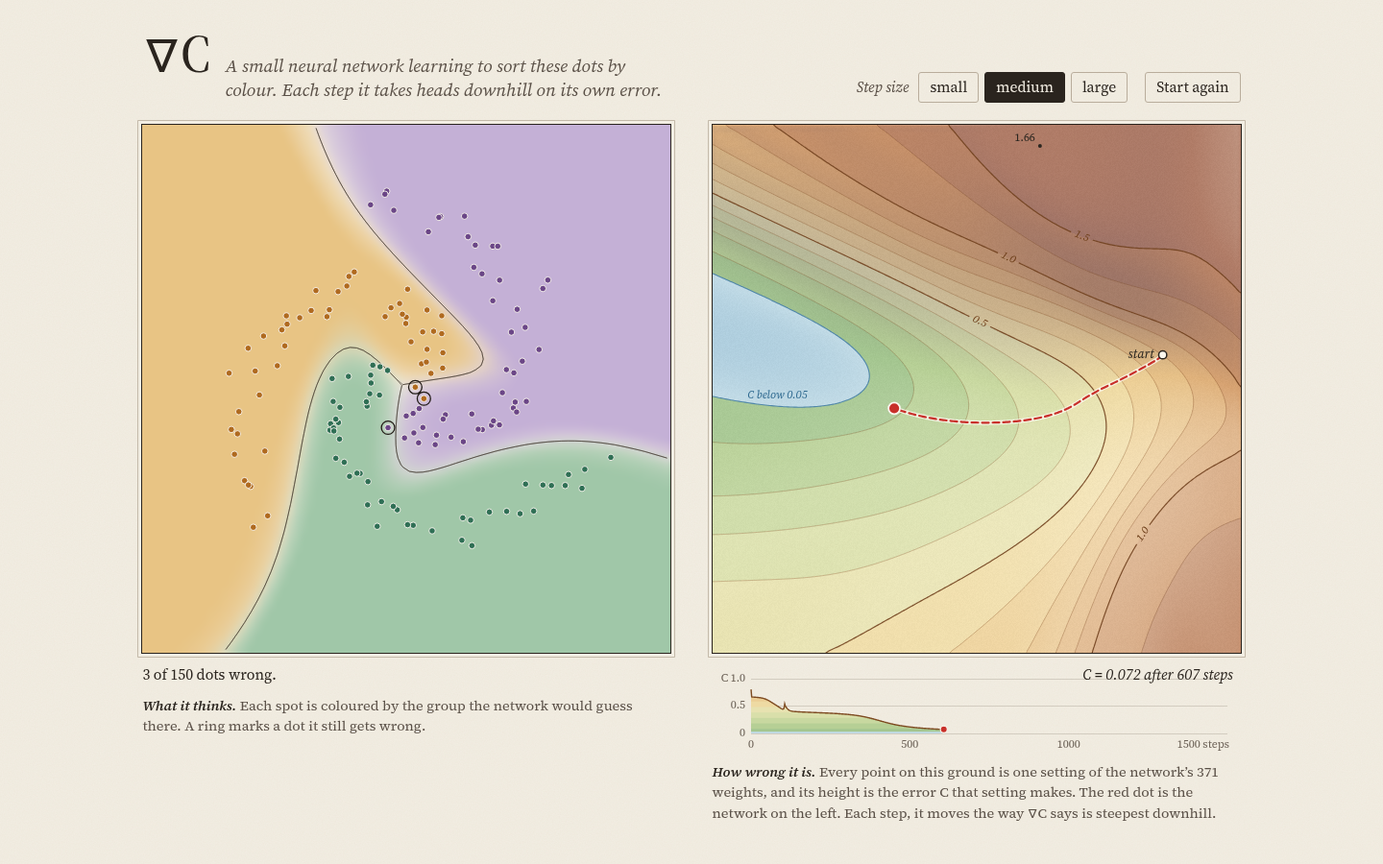
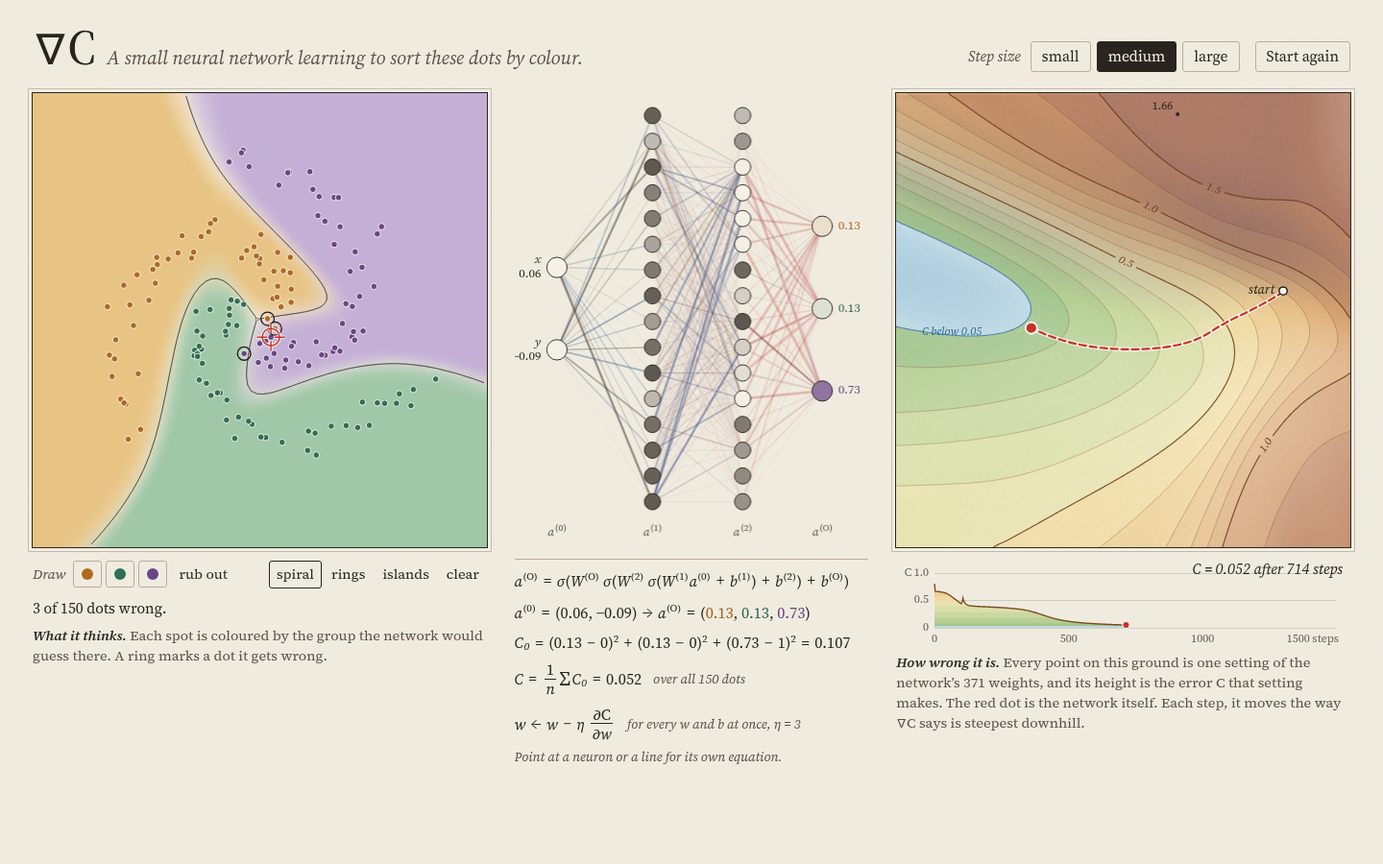
Gradient pulse scaled per step; README, integration entry and screenshots for round 2

diff --git a/src/main.js b/src/main.js
@@ -64,6 +64,7 @@ let stroke = null;
 let lastMaths = '';
 let mathsAt = 0;
 const grad = new Float64Array(P);
+let gradMax = 0; // the largest |∂C/∂w| at the step on screen
 
 // Section: runs.
 
@@ -295,7 +296,7 @@ function frame(now) {
       costAndGrad(net, run.thetas.subarray(0, P), run.data, grad);
       let gmax = 0;
       for (const L of net.layers) for (let i = 0; i < L.nin * L.nout; i++) gmax = Math.max(gmax, Math.abs(grad[L.w + i]));
-      run.gscale = gmax * 0.6;
+      run.gscale = gmax;
     }
     run.shown = s;
     run.drawnAt = now;
@@ -329,7 +330,9 @@ function frame(now) {
     from: pFrom,
     probeAge: still ? 1e9 : now - probeAt.since,
     grad,
-    gscale: run.gscale,
+    gscale: gradMax * 0.6,
+    // The pulse dims as ∇C shrinks, gently, so it stays visible to the end.
+    fade: run.gscale > 0 ? Math.max(0.25, Math.min(1, gradMax / run.gscale) ** 0.3) : 0,
     pulse,
     hover: netHover || netPin,
   });
@@ -370,6 +373,8 @@ function dataChanged(th) {
   const wrong = territory.render(net, th, data);
   if (!run.empty) costAndGrad(net, th, data, grad);
   else grad.fill(0);
+  gradMax = 0;
+  for (const L of net.layers) for (let i = 0; i < L.nin * L.nout; i++) gradMax = Math.max(gradMax, Math.abs(grad[L.w + i]));
   p = null;
   tally.textContent = !data.n
     ? 'No dots. Pick a colour and draw some.'

diff --git a/src/netview.js b/src/netview.js
@@ -76,12 +76,13 @@ export function makeNetView(canvas, net) {
   }
 
   // `s`: { th, p (probe), from (the probe before it moved, or null),
-  //        probeAge (ms since it moved), grad, gscale,
+  //        probeAge (ms since it moved), grad, gscale (|∂C/∂w| drawn at full
+  //        strength), fade (0..1, how bright the pulse is overall),
   //        pulse (0..1 front position, or null), hover }
   function draw(s) {
     if (!W) return;
     ctx.clearRect(0, 0, W, H);
-    const { th, p, from, grad, gscale, pulse, hover } = s;
+    const { th, p, from, grad, gscale, fade, pulse, hover } = s;
     const reveal = (l) => (p ? smooth((s.probeAge - 110 * l) / 220) : 0);
     // Each layer changes over from the old point's values to the new one's
     // as the signal reaches it.
@@ -135,8 +136,8 @@ export function makeNetView(canvas, net) {
         for (let j = 0; j < L.nout; j++) {
           for (let k = 0; k < L.nin; k++) {
             const g = Math.abs(grad[L.w + j * L.nin + k]);
-            const strength = Math.min(1, g / gscale) ** 0.4;
-            const a = glow * strength;
+            const strength = Math.min(1, g / gscale) ** 0.5;
+            const a = glow * strength * fade;
             if (a < 0.03) continue;
             line(RED, 0.75 * a, (0.6 + 2.4 * strength) * dpr, ends(l, j, k));
           }

diff --git a/README.md b/README.md
@@ -1,8 +1,8 @@
 # ∇C
 
-**In ten seconds:** on the left, a small neural network's guesses about some coloured dots go from muddle to a clean fit; on the right, a red dot walks down a contour map of the network's error until it reaches the lake at the bottom. Learning is that walk downhill.
+**In ten seconds:** on the left, a small neural network's guesses about some coloured dots go from muddle to a clean fit; in the middle, the network itself, its neurons lighting up for one dot at a time and a red pulse of ∇C running back through its weights; on the right, a red dot walks down a contour map of the network's error until it reaches the lake at the bottom. Learning is that walk downhill.
 
-The companion piece to the essay *Constructing ∇C*, which builds neural-network learning from high-school maths. Same notation: C is the cost, ∇C its gradient, and every step of learning is θ ← θ − η∇C.
+The companion piece to the essay *Constructing ∇C*, which builds neural-network learning from high-school maths. Same notation: C is the cost, C₀ the cost of one example, ∇C the gradient, layers written a⁽ˡ⁾ with (O) for the output, and every step of learning is w ← w − η ∂C/∂w.
 
 ```bash
 npm install
@@ -13,20 +13,27 @@ npm run validate   # the checks below; exits non-zero on failure
 
 ## What you are looking at
 
-- **What it thinks** (left). The plane the dots live in, coloured by the group the network would answer at each spot, paler where it is unsure, a thin line where its answer changes. A ring marks every dot it currently gets wrong, and the count sits under the map.
-- **How wrong it is** (right). A contour map of the cost. Every point on it is one complete setting of the network's 371 weights and biases; the height there is the error C that setting makes on the 150 dots. The red dot is the network on the left, and the dashed track is the way it has come. Water is where C is below 0.05.
-- **The route profile** under the map: C against step number, coloured with the same height tints.
+Three figures side by side on a wide screen (map, network, map), stacked on a phone.
 
-It runs by itself: a random start, 1500 steps played over seven seconds, a rest at the bottom, then a new random start (trained and surveyed in the background while you look at the last one). Two controls:
+- **What it thinks** (left). The plane the dots live in, coloured by the group the network would answer at each spot, paler where it is unsure, a thin line where its answer changes. A ring marks every dot it currently gets wrong, and the count sits under the map. A red crosshair marks the point being fed through the network.
+- **The network** (middle). 2 inputs, two hidden layers of 16, 3 outputs, every one of the 336 weights drawn as a line: ink for positive, blue for negative, heavier the bigger it is. Neurons fill with ink as they activate for the crosshaired point; the three outputs fill with their colour. When the point moves, the change travels through the drawing left to right, layer by layer, and the lines carrying the most signal (largest |w·a|) darken. While the network trains, a red pulse runs right to left every 1.5 s: each line glows in proportion to how hard ∇C is pulling on that weight at the current step, so the pulses fade as the gradient shrinks.
+- **The equations** (under the network), typeset, with the live numbers in them. Left alone they show the whole network as one function, the crosshaired dot's way in and way out, its own cost C₀, the average cost C and the update rule. Point at (or tap) a neuron and they become that neuron's a = σ(z), its weighted sum z with the biggest terms written out, ∂C₀/∂a for the crosshaired dot, ∂C/∂b, and the bias it will have after this step. Point at a line and they become that weight's ∂C/∂w as the chain rule ∂z/∂w · ∂a/∂z · ∂C₀/∂a averaged over every dot, the same chain for the crosshaired dot alone with its three factors, and the weight's next value.
+- **How wrong it is** (right). A contour map of the cost. Every point on it is one complete setting of the network's 371 weights and biases; the height there is the error C that setting makes on the dots. The red dot is the network, and the dashed track is the way it has come. Water is where C is below 0.05. Under it, the route profile: C against step number.
 
-- **Step size** (η): small (0.5) never gets off the plateau in 1500 steps and never reaches the water; medium (3) gets there; large (25) jumps straight uphill onto a flat plateau where every output neuron is saturated, chatters there, and then usually crashes down to a lower floor than medium reaches. On two of the first twelve random starts it never comes back down. All three are real outcomes; nothing is staged.
+It runs by itself: a random start, 1500 steps played over seven seconds, the crosshair touring the dots (mostly the ones still wrong) every 2.6 s, a rest at the bottom, then a new random start that was trained and surveyed in the background while you looked at the last one.
+
+What you can do:
+
+- **Draw.** Pick a colour and click or drag on the left map (or touch, on a phone) to lay down dots, about one every 0.055 units along the stroke; "rub out" erases under a dashed circle; "clear" removes everything. A quarter of a second after the stroke ends the network carries on training from where it stands, on the new dots, and the cost map is surveyed again. Presets: spiral (the opening), rings, islands. Up to 360 dots.
+- **Look.** Hover the left map to feed any point through the network (it snaps to a dot when you are near one, so the dot's own cost appears); click to pin it. Hover or tap the network for a neuron's or a weight's equations.
+- **Step size** (η): small (0.5) never gets off the plateau in 1500 steps; medium (3) reaches the water; large (25) jumps straight uphill onto a flat plateau where the outputs are saturated, chatters there, and usually crashes down to a lower floor than medium reaches. On two of the first twelve random starts it never comes back down.
 - **Start again**: new random weights.
 
 ## Art direction
 
-A sheet from a mid-century layer-coloured map: Bartholomew's half-inch maps of Britain for the hypsometric tints (green lowland through buff and brown to plum summits, one flat tint per band of height), Eduard Imhof's Swiss relief shading for the soft modelling lit from the upper left, brown contours with every fifth one heavier and numbered along the line, a blue shoreline, a spot height on the summit, and the route drawn the way Swiss walking maps draw paths: red dashes with a pale casing. The network's beliefs on the left use the vocabulary of a geological map instead: flat colour washes for each unit and thin black lines at the boundaries. Cream paper with a faint grain, Source Serif 4 for all text, set in italic for captions on the map as a cartographer would.
+A sheet from a mid-century printed atlas or textbook. The cost map borrows Bartholomew's layer-coloured half-inch maps for its tints (green lowland through buff and brown to plum summits, one flat tint per band of height), Eduard Imhof's Swiss relief shading for the soft modelling lit from the upper left, brown contours numbered along the line, a blue shoreline, a spot height on the summit, and the route drawn the way Swiss walking maps draw paths: red dashes with a pale casing. The beliefs map uses a geological map's vocabulary: flat washes and thin black boundaries. The network is drawn the way an old textbook figure would draw it, in two inks on the same paper, with no glow and no gradients of its own: circles filled like halftone by their activation, lines weighted by size, labelled a⁽⁰⁾ a⁽¹⁾ a⁽²⁾ a⁽ᴼ⁾ underneath. The equations are set in Source Serif 4 with real built-up fractions, stacked indices and a Σ with its index below, so that they read like the essay's own equations rather than a readout. Red is used for one idea throughout: the step. It is the route on the map, the dot that walks it, the gradient pulse in the network and the thing you are pointing at.
 
-Why it fits: the essay already reaches for this picture. It describes gradient descent as rolling a ball down hills and says that in more dimensions "the peaks and valleys look more like a topographic map". A contour map is the one diagram of a landscape that almost everyone can read without being taught, so the claim "learning is walking downhill on your error" can be shown rather than stated. Layer tints in particular do work here: green means low error and brown means high on every sheet, because the bands are fixed values of C, not fractions of whatever a sheet happens to span.
+Why it fits: the essay describes gradient descent as rolling a ball down hills and says that in more dimensions "the peaks and valleys look more like a topographic map", and the essay itself is a textbook. A contour map is the one diagram of a landscape that almost everyone can read without being taught, and a textbook figure is the register the network and its maths came from.
 
 ## What the maths actually does
 
@@ -36,23 +43,27 @@ Why it fits: the essay already reaches for this picture. It describes gradient d
 z(l) = W(l) a(l−1) + b(l)        a(l) = σ(z(l))        σ(z) = 1 / (1 + e^−z)
 ```
 
-**Cost.** The essay's squared error against a one-hot target, averaged over the 150 training dots:
+**Cost.** The essay's squared error against a one-hot target y, per dot and averaged:
 
 ```
-C(θ) = (1/N) Σ_n Σ_j ( a_j(out) − y_j )²
+C₀ = Σ_j ( a_j(O) − y_j )²          C = (1/n) Σ_dots C₀
 ```
 
-**Gradient.** Backpropagation, written out by hand in `src/net.js` exactly as the essay derives it with the chain rule:
+**Gradient.** Backpropagation, written out by hand in `src/net.js` (`costAndGrad`) as the essay derives it with the chain rule:
 
 ```
-δ(out)  = 2 (a(out) − y) ⊙ σ'(z(out))          σ'(z) = a (1 − a)
+δ(O)    = 2 (a(O) − y) ⊙ σ'(z(O))          σ'(z) = a (1 − a)
 ∂C/∂W(l) = δ(l) a(l−1)ᵀ        ∂C/∂b(l) = δ(l)
 δ(l−1)  = (W(l)ᵀ δ(l)) ⊙ σ'(z(l−1))
 ```
 
-summed over the dots and divided by N. Full batch, no momentum, no tricks: θ ← θ − η ∇C, 1500 times. A second, unrelated gradient engine (a scalar reverse-mode autograd, carried over from the first version of this piece) lives in `validate/value.js` purely to check this one.
+summed over the dots and divided by n. Full batch, no momentum: θ ← θ − η ∇C, 1500 times per run.
 
-**Data.** Three spiral arms, 50 dots each, a third of a turn apart, with Gaussian noise (σ = 0.05). Seeded, so identical on every machine.
+**The readouts** use a second, deliberately separate route to the same numbers, written the way the essay writes it for a single weight. `probe()` runs one point forward, keeping every z and a, and for a labelled dot backward, keeping ∂C₀/∂a for every neuron (∂C₀/∂a_j(O) = 2(a_j − y_j), then ∂C₀/∂a_k(l−1) = Σ_j w_jk σ′(z_j) ∂C₀/∂a_j). `chainGrad()` then forms ∂C/∂w_jk(l) as the average over dots of a_k(l−1) · σ′(z_j(l)) · ∂C₀/∂a_j(l). The validation checks this equals `costAndGrad` on every weight and bias, and that one dot's factor equals a finite difference of that dot's C₀. A third engine, a scalar reverse-mode autograd carried over from the first version of this piece, lives in `validate/value.js` purely to check `costAndGrad`.
+
+**Drawing.** Every edit rebuilds the training set. When a stroke ends, a new run starts from the weights currently on screen (not from scratch), so you watch the network adjust rather than relearn. A new preset, a step-size change, Start again and the automatic loop all start from fresh random weights.
+
+**Data.** Spiral: three arms of 50 dots, a third of a turn apart, Gaussian noise σ = 0.05. Rings: a disc and two annuli (36, 52 and 62 dots). Islands: five Gaussian clusters for three colours, two colours split across opposite corners. All seeded.
 
 **The map.** C lives in 371 dimensions, so the map is a flat slice, chosen after the walk:
 
@@ -62,13 +73,13 @@ d₂ = top principal direction of the steps θ_t − θ_end once their d₁ comp
 height(α, β) = C(θ_end + α d₁ + β d₂)
 ```
 
-Using the start-to-end line as the first axis means both ends of the route sit exactly on the surveyed ground; the second axis is the direction in which the route strays furthest from that line. (Li et al., *Visualizing the Loss Landscape of Neural Nets*, NeurIPS 2018, use the top two principal directions; this is a variant that pins the start.) The principal direction is found by power iteration on the Gram matrix of every third step. The route drawn is every step projected onto the plane. The window is square with equal scale on both axes, so a contour crossing at right angles really is the steepest way down within the slice. Heights are measured on a 72 × 72 grid (each cell is a full forward pass over all 150 dots), split across three Web Workers with a quick 28 × 28 pass first, then Catmull-Rom resampled for the raster and the contours. Contours are marching squares, joined into polylines.
+Using the start-to-end line as the first axis means both ends of the route sit exactly on the surveyed ground. (Li et al., *Visualizing the Loss Landscape of Neural Nets*, NeurIPS 2018, use the top two principal directions; this variant pins the start.) Power iteration on the Gram matrix of every third step; the route is every step projected onto the plane; the window is square with equal scale on both axes. Heights are measured on a 72 × 72 grid (each cell a full forward pass over every dot), split across three Web Workers after a quick 28 × 28 pass, then Catmull-Rom resampled. Contours are marching squares joined into polylines.
 
-**Timing.** Training runs in a worker and streams every step back; the page plays them at about 214 steps a second. The map cannot exist until the walk is over (the plane depends on the whole route), so the opening sheet (seed 1, η = 3) is surveyed by `scripts/opening.mjs` at build time, using the same modules. The page still trains that run live, compares its final weights against the shipped ones (tolerance 1e-4), and surveys again itself if they differ.
+**Timing.** Training runs in a worker and streams every step back; the page plays them at about 214 steps a second, starting as soon as the first steps arrive, and the map fades in when its survey is done. The opening sheet (spiral, seed 1, η = 3) is surveyed by `scripts/opening.mjs` at build time with the same modules; the page still trains that run live, compares its final weights against the shipped ones (tolerance 1e-4), and surveys again itself if they differ.
 
 ## The numbers
 
-There is no published number to reproduce here; the old piece did not have one either. What `npm run validate` checks instead is that the piece computes what it claims. Output from the current code:
+There is no published number to reproduce here; the old piece did not have one either. `npm run validate` checks instead that the piece computes what it shows. Output from the current code:
 
 ```
 1. scalar autograd against finite differences
@@ -80,28 +91,40 @@ There is no published number to reproduce here; the old piece did not have one e
 2. the piece's backpropagation against the scalar autograd (371 weights and biases)
   ok   random start (seed 4): C = 0.8825267234 both ways
   ok   random start (seed 4): largest disagreement in ∇C 2.50e-16 (largest component 0.1484)
-  ok   after 200 steps: C = 0.3788677277 both ways
-  ok   after 200 steps: largest disagreement in ∇C 4.08e-17 (largest component 0.0017)
+  ok   after 200 steps: C = 0.3788677278 both ways
+  ok   after 200 steps: largest disagreement in ∇C 6.32e-17 (largest component 0.0017)
 
 3. the piece's ∇C against finite differences of C (40 components chosen at random)
   ok   largest disagreement 7.10e-10
 
-4. gradient descent learns the task (η = 3, 1500 steps, ten random starts)
-  ok   C falls to under 5% of where it started on every start (worst 3.0%)
-  ok   every start ends with at least 98% of dots right (worst 99.3%)
+4. the equations under the network
+  ok   ∂C/∂w as (1/n) Σ a·σ′(z)·∂C₀/∂a matches ∇C on all 371 weights and biases, worst 1.81e-17
+  ok   ∂C₀/∂w for one dot, a·σ′(z)·∂C₀/∂a, against finite differences of C₀ (40 random dots and weights), worst 2.13e-10
+  ok   a(O) and C₀ in the readouts match the forward pass and the cost exactly (worst 0.00e+0)
 
-5. the map is the real cost where the route starts and ends
+5. gradient descent learns every preset (η = 3, 1500 steps, five random starts each)
+  ok   spiral (150 dots): C falls to 2.4% of its start or less, at least 99.3% of dots right
+  ok   rings (150 dots): C falls to 2.7% of its start or less, at least 100.0% of dots right
+  ok   islands (150 dots): C falls to 0.5% of its start or less, at least 100.0% of dots right
+
+6. retraining on drawn dots (spiral, trained from seed 1, plus a stroke)
+  ok   green, across the upper left: carrying on, C 0.239 → 0.051, drawn dots wrong 21 → 2 of 21
+  ok   ochre, down the right edge: carrying on, C 0.189 → 0.031, drawn dots wrong 15 → 1 of 15
+  ok   green, along the very top: from fresh random weights, 1 of 21 drawn dots wrong after 1500 steps
+  note green, along the very top: carrying on instead gets stuck, C ends at 0.150 with 21 of 21 drawn dots still wrong (saturated neurons; see README)
+
+7. the map is the real cost where the route starts and ends
   ok   start: map 0.801982, network 0.801982
   ok   end: map 0.015312, network 0.015312
   ok   98.9% of the route's squared length lies in the drawn plane
 
-6. src/opening.json matches the current code
+8. src/opening.json matches the current code
   ok   final weights agree to 4.98e-7
 
 all checks passed
 ```
 
-Outcomes over the first twelve random starts (`η`, final C after 1500 steps):
+Outcomes over the first twelve random starts on the spiral (final C after 1500 steps):
 
 | step size | η | final C | dots right | notes |
 |---|---|---|---|---|
@@ -111,30 +134,35 @@ Outcomes over the first twelve random starts (`η`, final C after 1500 steps):
 
 ## What is approximate, and what was cut
 
-- **The map is a slice, not the landscape.** It is the true cost on a plane through 371-dimensional space. The route is projected onto that plane; for the opening run 98.9% of its squared length lies in the plane, but in between its ends the dot can sit slightly above or below the drawn ground, and it can appear to cross a contour sideways. The profile under the map is the true C at every step, not a reading off the map.
-- **"Steepest downhill" is in all 371 dimensions.** −∇C is the steepest direction in the full space; its shadow on the slice need not be perpendicular to the drawn contours.
-- **The map is drawn after the fact.** The network only ever knew the slope where it stood. The page trains the whole run (well under a second on a laptop, about two seconds in headless Chromium) and plays it back at a watchable pace; the walk is computed, not animated toward a known answer, but you are watching a replay a few hundred milliseconds behind the computation.
-- **Map resolution.** 72 × 72 measured heights, interpolated. Thin features between grid points (the cliff the large step size walks along) are smoothed. The spot height is the highest measured grid value, not a true maximum.
-- **The water threshold** (C < 0.05) is a choice, labelled on the map.
-- **Medium usually ends with one dot wrong.** The noise puts one dot inside another arm; the network fits around it on some starts and not others. It is shown as it is.
-- **Cut from the old piece:** the network diagram, the attention view, the dataset/shape/activation form and the TRAIN button. The task is fixed (three spirals) and the network is fixed (two hidden layers of 16) so that the only thing that changes is the thing the piece is about. Cross-entropy and softmax were replaced by the essay's squared error and sigmoid outputs.
-- **Verified only in headless Chromium**, with and without SwiftShader, at 1440 × 900 and 390 × 844. Not yet looked at in Firefox or Safari, or on a real phone. Under SwiftShader the canvases are slow to composite and screenshot timing is unreliable; with `--disable-gpu` the per-frame work measured about 15 ms median on a loaded machine.
+- **Carrying on after a stroke can get stuck.** Retraining starts from the weights on screen so the change is visible as an adjustment. A trained sigmoid network has saturated neurons, and some strokes land where those neurons barely respond: check 6 above draws one such stroke, and 1500 steps from the trained weights leave all 21 dots wrong while fresh random weights learn them. The piece shows this as it happens. The next automatic restart, or Start again, begins from fresh weights and usually fixes it.
+- **The map is a slice, not the landscape.** The true cost on a plane through 371 dimensions. For the opening run 98.9% of the route's squared length lies in the plane, but between its ends the dot can sit slightly above or below the drawn ground and appear to cross a contour sideways. The profile under the map is the true C at every step.
+- **"Steepest downhill" is in all 371 dimensions.** −∇C is steepest in the full space; its shadow on the slice need not cross the drawn contours at right angles.
+- **The map is drawn after the fact,** because the plane depends on the whole route. The network only ever knew the slope where it stood. Each run is computed in a worker (about two seconds for 150 dots in headless Chromium on a busy machine, longer in proportion to the number of dots) and played back at a watchable pace a little behind the computation. After a stroke the map reads "Measuring the ground" for a second or two while it is surveyed.
+- **The gradient pulse** is the true |∂C/∂w| at the step on screen, but the brightness curve is chosen: each line is drawn at √(|∂C/∂w| / (0.6 × the largest |∂C/∂w| at that step)), and the whole pulse dims as (largest now / largest at the start of the run)^0.3, never below a quarter. So which lines glow, and in what order, is real; how bright the pulse is in absolute terms is a drawing choice that keeps it visible to the end. Biases have no lines, so their gradients appear only in the equations.
+- **Edge hover on dense layers.** The 16 × 16 layer has 256 lines in a narrow column; the nearest line within about 4.5 pixels is the one shown. On a phone tapping a particular line there is fiddly.
+- **The z equation** writes out the two largest terms of a 16-term sum and elides the rest with ⋯; the total printed is the full sum.
+- **Map resolution.** 72 × 72 measured heights, interpolated. The spot height is the highest grid value, not a true maximum. The water threshold (C < 0.05) is a choice, labelled on the map.
+- **Cut:** the old piece's attention view and the dataset/shape/activation form. The network shape is fixed (2-16-16-3); what you change is the data and the step size.
+- **Verified only in headless Chromium** (software rendering, `--disable-gpu`), at 1440 × 900, 1024 × 768 and 390 × 844, with drawing driven by synthetic mouse and touch pointer events. Not looked at in Firefox or Safari or on a real phone, and real-finger drawing on a touch screen is untested. In that software renderer the page ran at about 40 frames a second with no long tasks after the opening; a GPU-backed browser should do better.
 
 ## Dependencies
 
-None at runtime. Vite is a dev dependency. Fonts are self-hosted and subset: Source Serif 4 (roman and italic, weights 400 to 600, about 160 KB), plus the single ∇ glyph from Libertinus Serif because Source Serif has none; both OFL, licences in `src/fonts/`. Built output is about 270 KB including fonts.
+None at runtime. Vite is a dev dependency. Fonts are self-hosted and subset: Source Serif 4 (roman and italic, weights 400 to 600, Latin plus σ, Σ, δ, η, θ, ∂, ′ and arrows, about 165 KB), plus ∇, ⋅ and ∈ from Libertinus Serif because Source Serif lacks them; both OFL, licences in `src/fonts/`. Built output is about 285 KB including fonts.
 
 | file | lines | |
 |---|---|---|
-| `src/net.js` | 153 | network, cost, hand-written backprop |
-| `src/run.js` | 48 | one training run, shared by browser and checks |
-| `src/data.js` | 46 | the three arms |
+| `src/net.js` | 226 | network, cost, hand-written backprop, the probe and the chain-rule readouts |
+| `src/run.js` | 43 | one training run, shared by browser and checks |
+| `src/data.js` | 82 | presets and packing drawn dots |
 | `src/survey.js` | 177 | the plane and the height grid |
 | `src/contour.js` | 93 | marching squares |
-| `src/relief.js` | 347 | the layer-coloured sheet |
-| `src/territory.js` | 123 | the beliefs map |
+| `src/relief.js` | 355 | the layer-coloured sheet |
+| `src/terrain.js` | 68 | the route on the sheet |
+| `src/territory.js` | 178 | the beliefs map, dots, crosshair |
+| `src/netview.js` | 271 | the network figure |
+| `src/maths.js`, `src/tex.js` | 143 | the equations and their typesetting |
 | `src/profile.js` | 102 | the route profile |
-| `src/main.js` | 295 | workers, playback, drawing the route |
-| `src/*.worker.js` | 36 | training and surveying off the main thread |
-| `scripts/opening.mjs` | 44 | surveys the opening sheet at build time |
-| `validate/` | 284 | scalar autograd and the checks |
+| `src/main.js` | 547 | workers, playback, the tour, drawing, pointing |
+| `src/*.worker.js` | 38 | training and surveying off the main thread |
+| `scripts/opening.mjs` | 48 | surveys the opening sheet at build time |
+| `validate/` | 394 | scalar autograd and the checks |

diff --git a/INTEGRATION.md b/INTEGRATION.md
@@ -1,7 +1,7 @@
 # Integration
 
 ```js
-{ title: '∇C', description: 'A small neural network learns to sort dots by colour while a red dot walks down a contour map of its error, so you can watch learning happen as a walk downhill.', url: 'https://nablac.juliuschandler.com', tags: ['NEURAL NETWORKS', 'GRADIENT DESCENT', 'BACKPROPAGATION'] }
+{ title: '∇C', description: 'A small neural network learns to sort dots you can draw yourself, shown as its wiring, its equations and a map of its error that it walks down.', url: 'https://nablac.juliuschandler.com', tags: ['NEURAL NETWORKS', 'GRADIENT DESCENT', 'BACKPROPAGATION'] }
 ```
 
-The card screenshot is `shots/desktop.png` (1440 × 900, about five seconds in, mid-descent).
+The card screenshot is `shots/desktop.png` (1440 × 900, a few seconds in, mid-descent).
